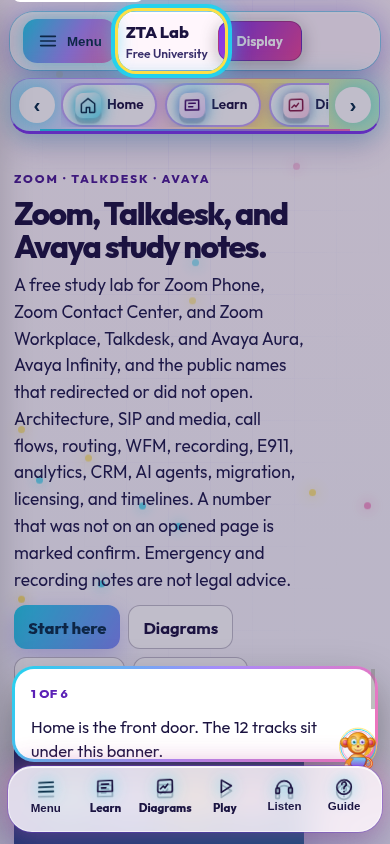
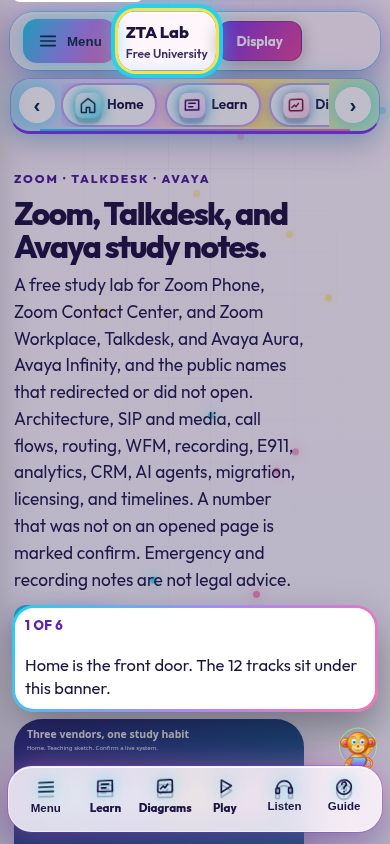
Fit the phone tour card above the dock.
Keep Skip and Next in the card on a 390px first visit, clear of the mascot and the bottom dock, and check that with Playwright.

diff --git a/guide/guide.js b/guide/guide.js
@@ -499,7 +499,7 @@
   var tour = document.createElement("div");
   tour.hidden = true;
   tour.className = "tour-layer";
-  tour.innerHTML = '<div class="tour-hole" data-hole></div><div class="tour-card" role="dialog" aria-modal="false" aria-label="First visit tour"><p class="tour-kicker" data-kicker></p><p data-step></p><div class="tour-dots" role="group" aria-label="Steps 1 to 6"></div><div class="row"><button type="button" data-back>Back</button><button type="button" data-next>Next</button><button type="button" data-skip>Skip</button></div></div>';
+  tour.innerHTML = '<div class="tour-hole" data-hole></div><div class="tour-card" role="dialog" aria-modal="false" aria-label="First visit tour"><div class="tour-lead"><p class="tour-kicker" data-kicker></p><p data-step></p></div><div class="tour-actions"><div class="tour-dots" role="group" aria-label="Steps 1 to 6"></div><div class="row"><button type="button" data-back>Back</button><button type="button" data-next>Next</button><button type="button" data-skip>Skip</button></div></div></div>';
   document.body.appendChild(tour);
   var hole = tour.querySelector("[data-hole]");
   var stepText = tour.querySelector("[data-step]");
@@ -517,13 +517,14 @@
     return total || null;
   }
   var trackTotal = realTrackCount();
+  var trackLabel = trackTotal || "these";
   var steps = [
-    { sel: "[data-tour='home']", n: "1 of 6", text: "Home is the front door. The " + (trackTotal || "study") + " tracks sit under this banner." },
-    { sel: "[data-tour='menu']", n: "2 of 6", text: "Menu is at the top left. The drawer slides in. Esc or a tap outside closes it." },
-    { sel: "[data-tour='learn']", n: "3 of 6", text: "Learn is the short path: ten minutes, or the full course." },
-    { sel: "[data-tour='diagrams']", n: "4 of 6", text: "Diagrams are the still drawings. Flows are the ladders that move." },
-    { sel: "[data-tour='play']", n: "5 of 6", text: "Play drills codes. Listen, on the phone bar and in the guide, reads the page aloud." },
-    { sel: "[data-tour='downloads']", n: "6 of 6", text: "Downloads holds the sheets, cards, and the zip. Every room also has its own export buttons. The monkey can point at the file for this section." }
+    { sel: "[data-tour='home']", n: "1 of 6", text: "Home. The " + trackLabel + " tracks sit under this banner." },
+    { sel: "[data-tour='menu']", n: "2 of 6", text: "Menu opens the drawer. Esc closes it." },
+    { sel: "[data-tour='learn']", n: "3 of 6", text: "Learn is ten minutes, or the full course." },
+    { sel: "[data-tour='diagrams']", n: "4 of 6", text: "Diagrams are still. Flows are the ladders." },
+    { sel: "[data-tour='play']", n: "5 of 6", text: "Play drills. Listen reads this page." },
+    { sel: "[data-tour='downloads']", n: "6 of 6", text: "Downloads has the sheets, cards, and zip." }
   ];
   var stepAt = 0;
   steps.forEach(function (step, index) {
@@ -594,53 +595,45 @@
     var mascot = band(".bot-dock:not(.is-open) .monkey-btn");
     var banner = band(".canon-banner");
     var gap = 12;
-    var cardH = card.offsetHeight;
     var roomTop = Math.max(header ? header.bottom : 8, banner ? banner.bottom : 0) + gap;
     var roomBottom = window.innerHeight - gap;
     if (phone && phone.top - gap < roomBottom) roomBottom = phone.top - gap;
-    if (isPhone() && mascot && mascot.left > 80) {
-      var side = 12;
-      var rightLimit = Math.round(mascot.left - gap);
-      card.style.width = Math.max(180, rightLimit - side) + "px";
-      card.style.left = side + "px";
-      card.style.right = "auto";
-      card.style.transform = "none";
-    }
+    if (isPhone() && mascot && mascot.top - gap < roomBottom) roomBottom = mascot.top - gap;
     var hero = document.querySelector("main h1");
     var heroBox = hero ? hero.getBoundingClientRect() : null;
+    var firstLines = document.querySelector("main .lede, main h1 + p");
+    var guardBox = firstLines ? firstLines.getBoundingClientRect() : heroBox;
+    var guardBottom = guardBox && guardBox.height > 8 ? guardBox.bottom : (heroBox ? heroBox.bottom : roomTop);
+    var floor = isPhone() ? Math.max(roomTop, Math.round(guardBottom + gap)) : 8;
+    card.classList.remove("is-capped");
+    card.style.maxHeight = "none";
+    card.style.height = "auto";
+    card.style.left = "50%";
+    card.style.right = "auto";
+    card.style.width = "";
+    card.style.transform = "translateX(-50%)";
+    var natural = card.offsetHeight;
+    var available = Math.max(0, roomBottom - floor);
+    if (isPhone() && available > 0 && natural > available) {
+      card.classList.add("is-capped");
+      card.style.maxHeight = available + "px";
+      natural = card.offsetHeight;
+    }
+    var cardH = natural;
     function hitsHero(candidate) {
       if (!heroBox || heroBox.height < 8) return false;
       return !(candidate + cardH < heroBox.top - 8 || candidate > heroBox.bottom + 8);
     }
     var top = roomBottom - cardH;
-    var firstLines = document.querySelector("main .lede, main .kicker + h1 + p, main h1 + p");
-    var guardBox = firstLines ? firstLines.getBoundingClientRect() : heroBox;
-    var guardBottom = guardBox && guardBox.height > 8 ? guardBox.bottom : (heroBox ? heroBox.bottom : roomTop);
-    var floor = 8;
-    if (isPhone()) {
-      floor = Math.max(roomTop, Math.round(guardBottom + gap));
-      card.style.maxHeight = Math.max(96, roomBottom - floor) + "px";
-      cardH = card.offsetHeight;
-      top = roomBottom - cardH;
-      if (top < floor) top = floor;
-    } else if (hitsHero(top)) {
+    if (!isPhone() && hitsHero(top)) {
       var belowHero = heroBox.bottom + gap;
       var aboveHero = heroBox.top - cardH - gap;
       if (belowHero >= roomTop && belowHero + cardH <= roomBottom) top = belowHero;
       else if (aboveHero >= roomTop) top = aboveHero;
     }
-    if (top + cardH > roomBottom) {
-      card.style.maxHeight = Math.max(72, roomBottom - Math.max(floor, roomTop)) + "px";
-      cardH = card.offsetHeight;
-      top = roomBottom - cardH;
-    }
-    if (top < floor && floor + cardH <= roomBottom) top = floor;
+    if (top + cardH > roomBottom) top = roomBottom - cardH;
+    if (isPhone() && top < floor && floor + cardH <= roomBottom) top = floor;
     if (top < 8) top = 8;
-    if (!isPhone() || !(mascot && mascot.left > 80)) {
-      card.style.left = "50%";
-      card.style.right = "auto";
-      card.style.transform = "translateX(-50%)";
-    }
     card.style.top = Math.round(top) + "px";
   }
   function showTour() {

diff --git a/guide/guide.css b/guide/guide.css
@@ -49,7 +49,9 @@ html[data-theme="aurora"] .tour-card {
   color: #5b21b6;
 }
 html[data-theme="aurora"] .tour-kicker { color: #c4b5fd; }
+.tour-lead { min-width: 0; }
 .tour-card p { margin: 0 0 12px; line-height: 1.45; }
+.tour-actions { display: block; }
 .tour-dots {
   display: flex;
   gap: 8px;
@@ -104,8 +106,44 @@ html[data-theme="aurora"] .tour-kicker { color: #c4b5fd; }
 html[data-theme="aurora"] .tour-card button:focus-visible { outline-color: #fde047; }
 @media (max-width: 800px) {
   .tour-card {
+    display: flex;
+    flex-direction: column;
+    justify-content: flex-start;
+    gap: 6px;
     width: min(440px, calc(100vw - 24px));
+    max-height: none;
+    overflow: hidden;
+    padding: 8px 10px;
     z-index: 93;
+  }
+  .tour-lead { display: block; flex: none; }
+  .tour-card.is-capped .tour-lead { flex: 1 1 auto; min-height: 0; overflow: hidden; }
+  .tour-kicker,
+  .tour-card .tour-lead p {
+    margin: 0;
+    font-size: 0.8rem;
+    line-height: 1.25;
+  }
+  .tour-kicker { margin-bottom: 2px; }
+  .tour-actions {
+    display: flex;
+    align-items: center;
+    justify-content: space-between;
+    gap: 6px;
+    flex: none;
+  }
+  .tour-dots { margin: 0; gap: 4px; flex: none; }
+  .tour-card .tour-dot {
+    width: 22px;
+    height: 22px;
+    min-height: 22px;
+    font-size: 0.68rem;
+  }
+  .tour-card .row { flex-wrap: nowrap; gap: 4px; margin: 0; }
+  .tour-card .row button {
+    min-height: 32px;
+    padding: 0 8px;
+    font-size: 0.75rem;
   }
   .phone-bar, .bot-dock:not(.is-open) { pointer-events: auto; }
 }

diff --git a/sw.js b/sw.js
@@ -1,5 +1,5 @@
 /* Cache shell for the ZTA study lab. */
-var CACHE = "zta-lab-r1";
+var CACHE = "zta-lab-r2";
 var SHELL = ["./index.html","./start.html","./assets/css/uc.css","./assets/js/frame.js","./guide/guide.js","./favicon.svg"];
 self.addEventListener("install", function (event) {
   event.waitUntil(caches.open(CACHE).then(function (cache) { return cache.addAll(SHELL); }).then(function () { return self.skipWaiting(); }));

diff --git a/scripts/build_lab.py b/scripts/build_lab.py
@@ -707,7 +707,7 @@ def build_hubs():
         zf.writestr("README.txt", "Study notes. Not vendor documentation and not legal advice.\n")
 
     write("sw.js", r'''/* Cache shell for the ZTA study lab. */
-var CACHE = "zta-lab-r1";
+var CACHE = "zta-lab-r2";
 var SHELL = ["./index.html","./start.html","./assets/css/uc.css","./assets/js/frame.js","./guide/guide.js","./favicon.svg"];
 self.addEventListener("install", function (event) {
   event.waitUntil(caches.open(CACHE).then(function (cache) { return cache.addAll(SHELL); }).then(function () { return self.skipWaiting(); }));

diff --git a/README.md b/README.md
@@ -9,6 +9,9 @@ Counts are written to `assets/data/counts.json` by `scripts/build_lab.py`. A row
 ```bash
 python3 scripts/build_lab.py
 node scripts/verify.mjs
+node scripts/check-tour-phone.mjs
 ```
+
+`scripts/check-tour-phone.mjs` uses Playwright at 390×844. It needs `playwright` installed (`npm install --no-save playwright` and `npx playwright install chromium`).
 
 `scripts/verify.mjs` runs on Node 20 and Node 22. Node 22 uses the global WebSocket. Node 20 uses the small client in that script. `ZTA_FORCE_WS_FALLBACK=1` runs the Node 20 client even when a global WebSocket exists.
